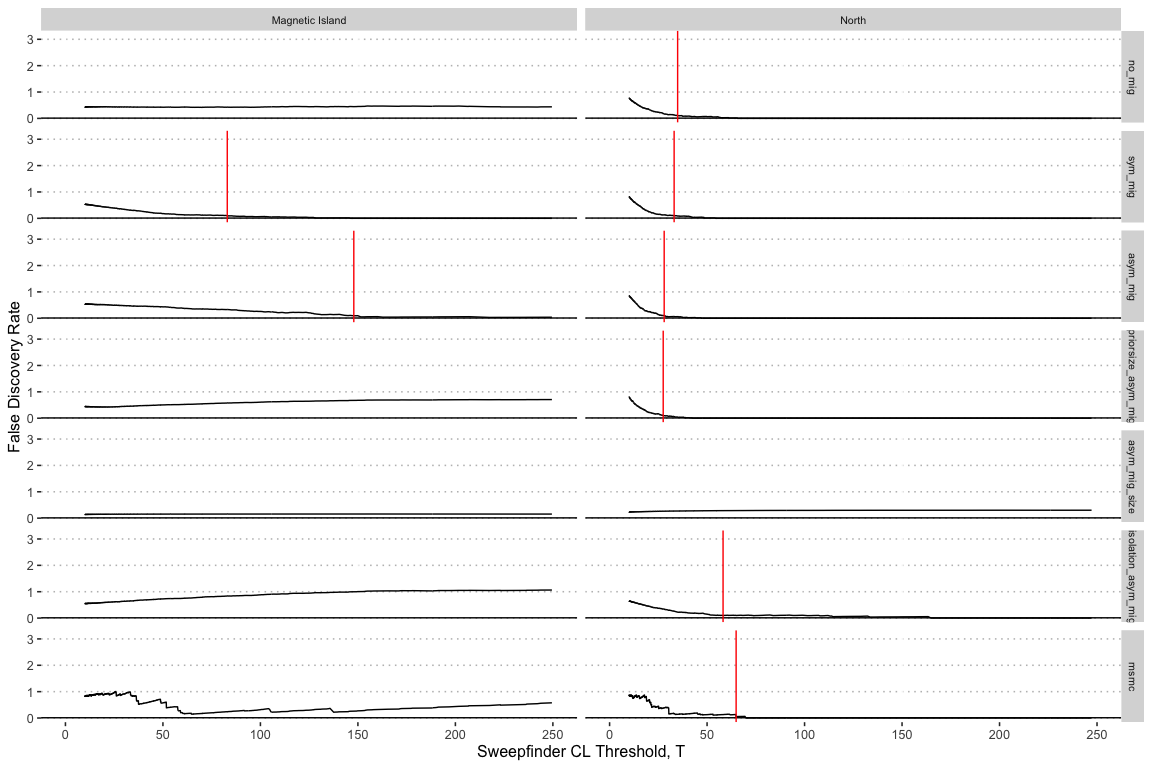
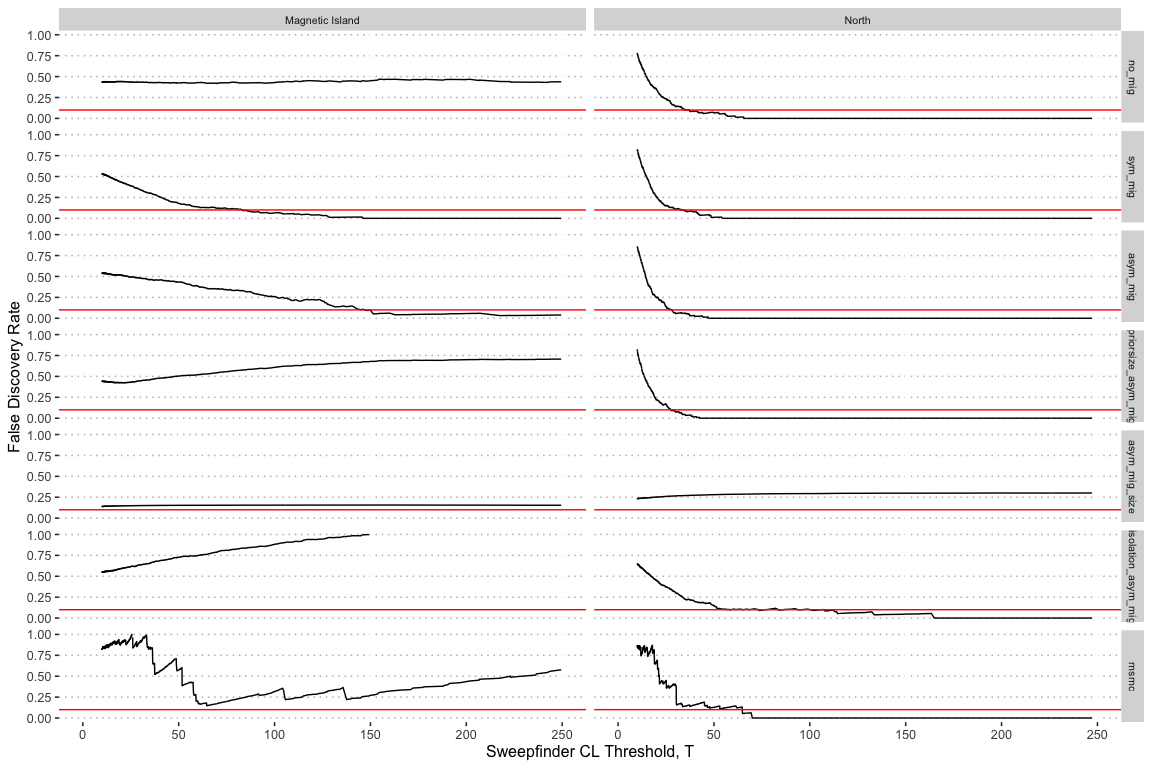
Update sf2 threshold code

diff --git a/05_sf2_thresholds.md b/05_sf2_thresholds.md
@@ -117,3 +117,12 @@ Red vertical lines represent CLR threshold values for which the FDR
 reaches 10%.
 
 ![](05_sf2_thresholds_files/figure-gfm/unnamed-chunk-3-1.png)<!-- -->
+
+For the analysis including all northern reefs together we used a CLR
+threshold of 100 whereas when looking at reefs separately we used CLR
+threshold of 50. What FDR do these correspond to
+
+| model                | population |       fdr | threshold |
+| :------------------- | :--------- | --------: | --------: |
+| isolation\_asym\_mig | North      | 0.1018184 |       100 |
+| isolation\_asym\_mig | North      | 0.1491746 |        50 |
